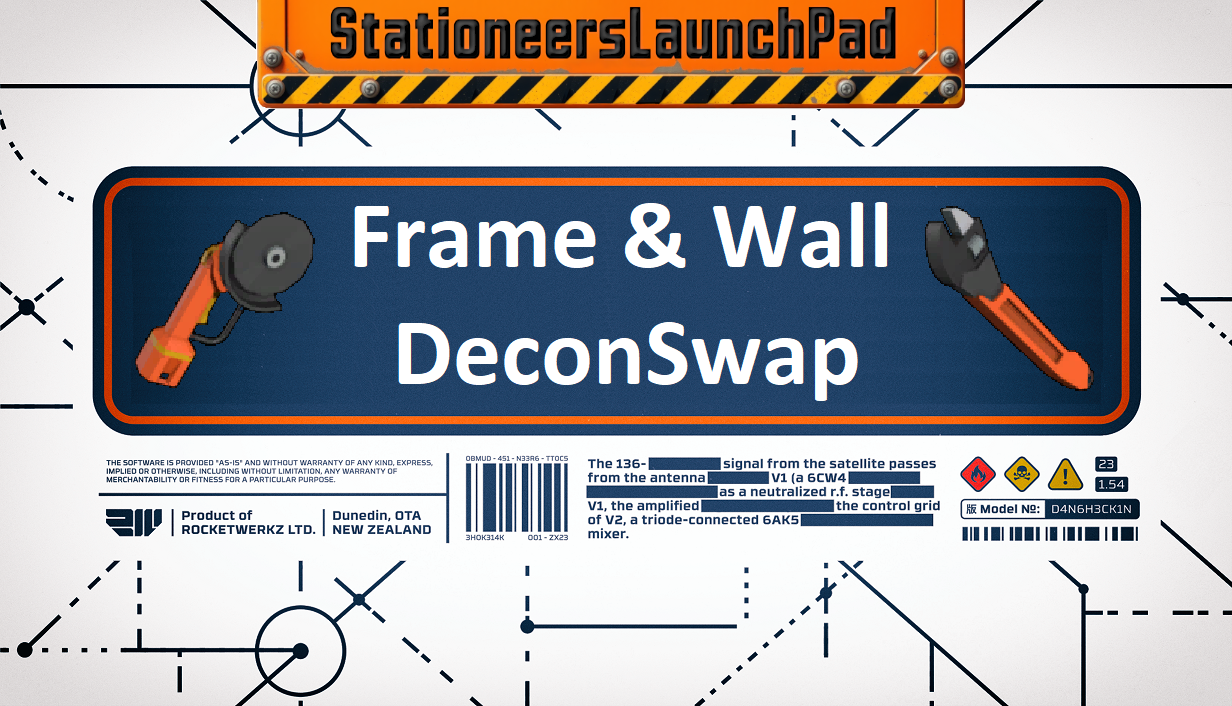
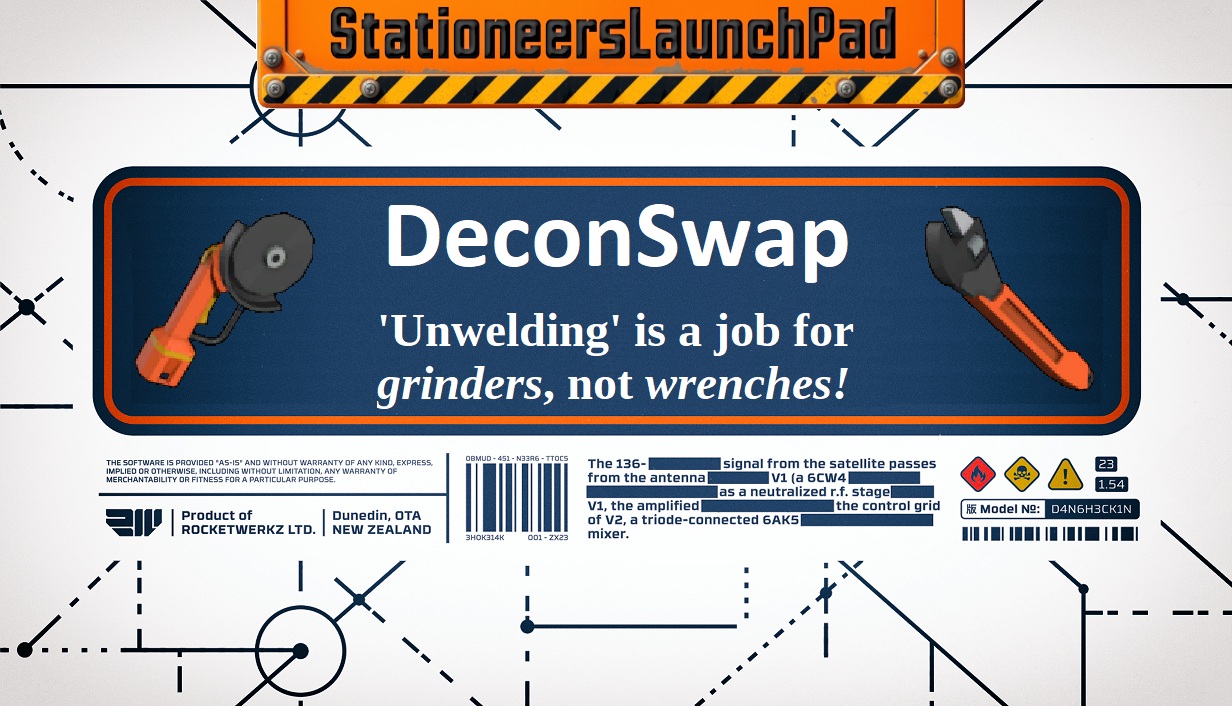
Removing "Frame and Wall" from naming since the scope has expanded well beyond those. Updated descriptions, version, and workshop preview/thumb to reflect this.

Changed region(s): [[0.3084, 0.4363, 0.7094, 0.5921], [0.2776, 0.2805, 0.7403, 0.4051]]

diff --git a/DeconSwap.cs b/DeconSwap.cs
@@ -11,11 +11,11 @@ namespace DeconSwap
     {
         public static DeconSwapPlugin Instance;
         public const string PluginGuid = "stationeers.DeconSwap";
-        public const string PluginName = "Frame & Wall DeconSwap";
-        public const string PluginVersion = "1.3.0";
+        public const string PluginName = "DeconSwap";
+        public const string PluginVersion = "1.3.1";
         public static Mod mod = new Mod(PluginGuid, PluginVersion);
 
-        public static BepInEx.Logging.ManualLogSource logger = new BepInEx.Logging.ManualLogSource("F&W DeconSwap");
+        public static BepInEx.Logging.ManualLogSource logger = new BepInEx.Logging.ManualLogSource("DeconSwap");
 
         public static ConfigEntry<int> grindTimeMultiplier;
         //public static ConfigEntry<bool> extraLogOutputs;
@@ -36,7 +36,7 @@ namespace DeconSwap
             }
             catch (Exception e)
             {
-                logger.LogError("Patch Failed");
+                logger.LogError("Patch Failed!");
                 logger.LogError(e.ToString());
             }
 
